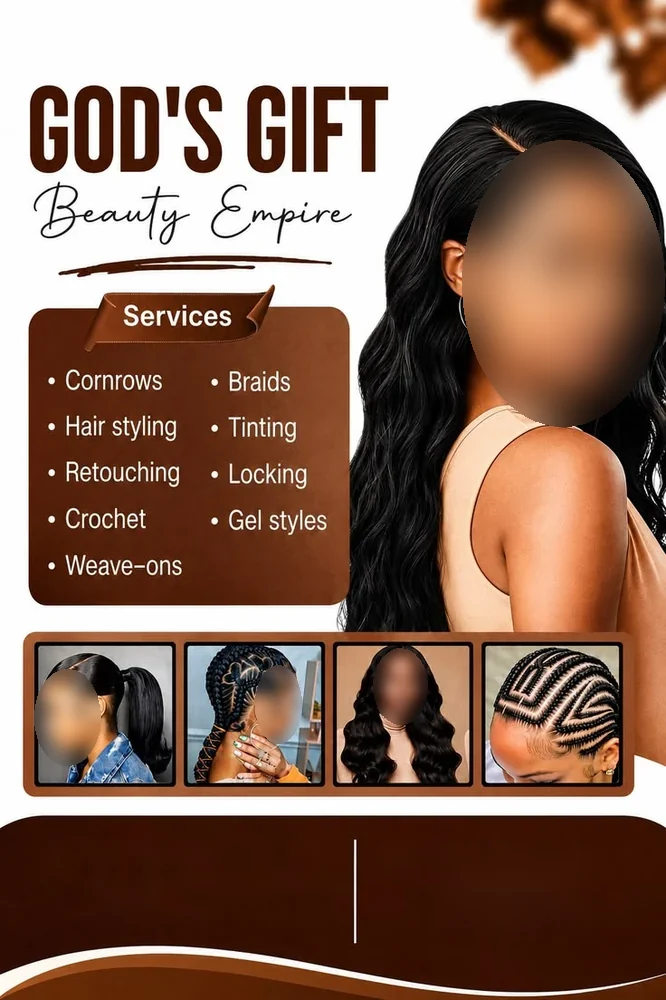
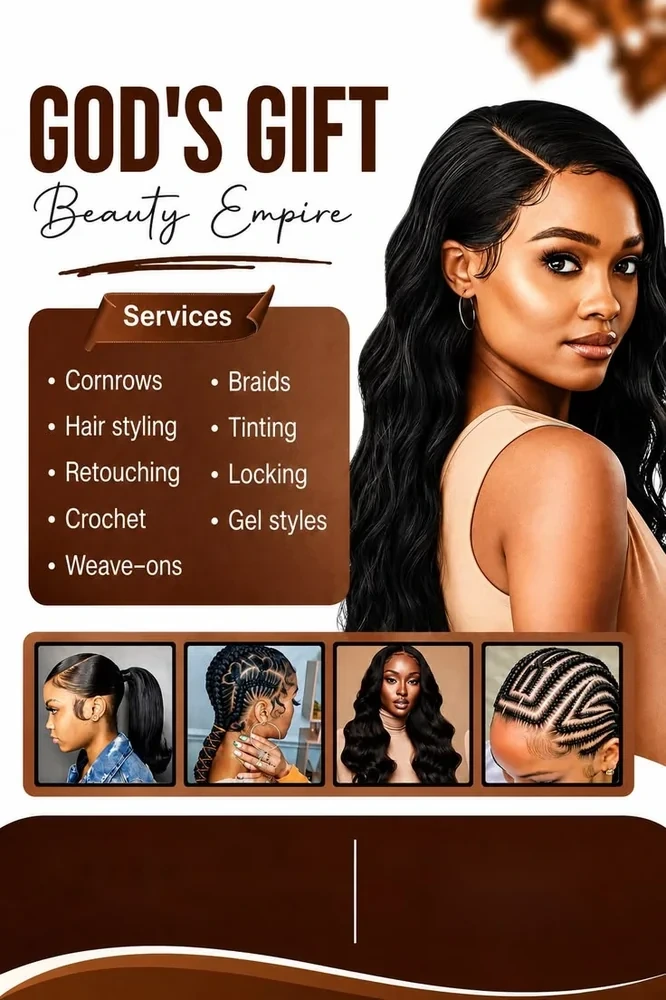
Show public faces again, and move support to a corner button.
Birthday and wedding posters keep face blur. Dates and venues stay masked.
The support link leaves the header and sits as a flat mint headset at the bottom right.

diff --git a/src/components/support/support-corner.tsx b/src/components/support/support-corner.tsx
@@ -1,0 +1,41 @@
+"use client";
+
+import Link from "next/link";
+import { usePathname } from "next/navigation";
+import { useEffect, useState } from "react";
+import { COOKIE_CHOICE_EVENT, COOKIE_CONSENT_KEY } from "@/components/legal/cookie-banner";
+
+export function SupportCorner() {
+  const pathname = usePathname() ?? "";
+  const [lifted, setLifted] = useState(true);
+
+  useEffect(() => {
+    function sync() {
+      setLifted(!window.localStorage.getItem(COOKIE_CONSENT_KEY));
+    }
+    sync();
+    window.addEventListener(COOKIE_CHOICE_EVENT, sync);
+    window.addEventListener("storage", sync);
+    return () => {
+      window.removeEventListener(COOKIE_CHOICE_EVENT, sync);
+      window.removeEventListener("storage", sync);
+    };
+  }, []);
+
+  if (pathname.startsWith("/support") || pathname.startsWith("/c/")) return null;
+
+  return (
+    <Link
+      href="/support"
+      aria-label="Ouvrir le support"
+      className={`fixed right-4 z-[90] inline-flex h-14 w-14 items-center justify-center rounded-2xl bg-[#10B981] text-[#1E293B] shadow-[0_4px_12px_rgba(30,41,59,0.12)] transition-[background-color,bottom] duration-200 hover:bg-[#059669] focus-visible:outline focus-visible:outline-2 focus-visible:outline-offset-2 focus-visible:outline-[#6D28D9] ${lifted ? "bottom-48 md:bottom-28" : "bottom-5"}`}
+    >
+      <svg viewBox="0 0 24 24" className="h-7 w-7" fill="none" stroke="currentColor" strokeWidth="1.8" aria-hidden="true">
+        <path strokeLinecap="round" d="M4.5 13v-1a7.5 7.5 0 0 1 15 0v1" />
+        <rect x="2.4" y="12" width="4.2" height="6.2" rx="1.1" />
+        <rect x="17.4" y="12" width="4.2" height="6.2" rx="1.1" />
+        <path strokeLinecap="round" d="M19.6 18.2v.8A2.2 2.2 0 0 1 17.4 21H14" />
+      </svg>
+    </Link>
+  );
+}

diff --git a/src/lib/exact-showcase.ts b/src/lib/exact-showcase.ts
@@ -9,7 +9,7 @@ export const EXACT_SHOWCASE = [
     meta: "Date retirée",
     cta: "Exemple public",
     domaine: "Beauté",
-    alt: "Exemple public, affiche beauté. Visages, date et nom retirés.",
+    alt: "Exemple public, affiche beauté. Date et nom retirés.",
     className: "cover-side cover-side-left",
     priority: false,
   },
@@ -23,7 +23,7 @@ export const EXACT_SHOWCASE = [
     meta: "Contact retiré",
     cta: "Shop Now",
     domaine: "High-tech",
-    alt: "Exemple public, affiche high-tech. Visage, marque et contacts retirés.",
+    alt: "Exemple public, affiche high-tech. Marque et contacts retirés.",
     className: "cover-side cover-side-right",
     priority: false,
   },
@@ -37,7 +37,7 @@ export const EXACT_SHOWCASE = [
     meta: "Salle Horizon",
     cta: "Réservation",
     domaine: "Événement",
-    alt: "Exemple public, affiche événement. Visages, horaire, lieu et téléphones retirés.",
+    alt: "Exemple public, affiche événement. Horaire, lieu et téléphones retirés.",
     className: "cover-hero",
     priority: true,
   },

diff --git a/src/app/confidentialite/page.tsx b/src/app/confidentialite/page.tsx
@@ -45,7 +45,7 @@ export default function PrivacyPage() {
       <section>
         <h2 className="text-2xl font-bold">Exemples publics</h2>
         <p className="mt-3 text-slate-700">
-          Les affiches de la galerie Créations et du showcase viennent de références déjà publiées. Les visages y sont floutés, et les noms, numéros, dates et lieux réels sont retirés, pour ne pas remettre en ligne l’identité des personnes visibles sur ces sources. Ce flou ne s’applique pas à une affiche qu’un client génère : sa photo reste nette, et seuls les textes qu’il fournit changent.
+          Les affiches de la galerie Créations et du showcase viennent de références déjà publiées. Les noms, numéros, dates et lieux réels sont retirés. Les visages restent visibles, sauf sur les affiches anniversaire et mariage, où ils restent flous. Ce flou ne s’applique pas à une affiche qu’un client génère : sa photo reste nette, et seuls les textes qu’il fournit changent.
         </p>
       </section>
 

diff --git a/src/components/site-header.tsx b/src/components/site-header.tsx
@@ -39,9 +39,6 @@ export function SiteHeader({ mintBalance = null, showAdmin = false, adminHref = 
             <Link href="/history" className="transition hover:text-[#6D28D9]">
               Historique
             </Link>
-            <Link href="/support" className="transition hover:text-[#6D28D9]">
-              Support
-            </Link>
             <Link href="/profile" className="transition hover:text-[#6D28D9]">
               Profil
             </Link>
@@ -108,9 +105,6 @@ export function SiteHeader({ mintBalance = null, showAdmin = false, adminHref = 
               </Link>
               <Link href="/history" className="rounded-lg px-2 py-2" onClick={() => setOpen(false)}>
                 Historique
-              </Link>
-              <Link href="/support" className="rounded-lg px-2 py-2" onClick={() => setOpen(false)}>
-                Support
               </Link>
               <Link href="/profile" className="rounded-lg px-2 py-2" onClick={() => setOpen(false)}>
                 Profil

diff --git a/src/components/legal/cookie-banner.tsx b/src/components/legal/cookie-banner.tsx
@@ -2,13 +2,14 @@
 
 import { useEffect, useState } from "react";
 
-const KEY = "fm-cookie-consent";
+export const COOKIE_CONSENT_KEY = "fm-cookie-consent";
+export const COOKIE_CHOICE_EVENT = "fm-cookie-choice";
 
 export function CookieBanner() {
   const [visible, setVisible] = useState(false);
 
   useEffect(() => {
-    const stored = window.localStorage.getItem(KEY);
+    const stored = window.localStorage.getItem(COOKIE_CONSENT_KEY);
     setVisible(!stored);
     if (stored === "analytics") {
       window.dispatchEvent(new Event("fm-analytics-consent"));
@@ -16,8 +17,9 @@ export function CookieBanner() {
   }, []);
 
   function choose(value: "necessary" | "analytics") {
-    window.localStorage.setItem(KEY, value);
+    window.localStorage.setItem(COOKIE_CONSENT_KEY, value);
     setVisible(false);
+    window.dispatchEvent(new Event(COOKIE_CHOICE_EVENT));
     if (value === "analytics") {
       window.dispatchEvent(new Event("fm-analytics-consent"));
     }

diff --git a/src/components/chrome/auth-chrome.tsx b/src/components/chrome/auth-chrome.tsx
@@ -4,6 +4,7 @@ import { SiteFooter } from "@/components/site-footer";
 import { SiteHeaderHost } from "@/components/site-header-host";
 import { SiteFrame } from "@/components/chrome/site-frame";
 import { CookieBanner } from "@/components/legal/cookie-banner";
+import { SupportCorner } from "@/components/support/support-corner";
 import { AnalyticsLoader } from "@/components/legal/analytics-loader";
 
 const jakarta = Plus_Jakarta_Sans({
@@ -19,6 +20,7 @@ export function AuthChrome({ children }: { children: ReactNode }) {
         <SiteFrame header={<SiteHeaderHost />} footer={<SiteFooter />}>
           {children}
         </SiteFrame>
+        <SupportCorner />
         <CookieBanner />
         <AnalyticsLoader domain={process.env.NEXT_PUBLIC_ANALYTICS_DOMAIN} />
       </body>

diff --git a/src/app/creations/page.tsx b/src/app/creations/page.tsx
@@ -17,7 +17,7 @@ export default function CreationsPage() {
         <div>
           <h1 className="text-3xl font-extrabold">Créations</h1>
           <p className="mt-2 max-w-xl text-slate-600">
-            {posters.length} domaines. Chaque affiche garde la photo et la composition de sa référence. Les noms, numéros, dates et lieux réels sont retirés. Les visages, surtout celui de l’anniversaire, sont floutés.
+            {posters.length} domaines. Chaque affiche garde la photo et la composition de sa référence. Les noms, numéros, dates et lieux réels sont retirés. Les visages restent flous sur l’anniversaire et le mariage.
           </p>
         </div>
         <Link href="/create" className="btn-primary">

diff --git a/src/components/chrome/public-chrome.tsx b/src/components/chrome/public-chrome.tsx
@@ -5,6 +5,7 @@ import { BrandLogo } from "@/components/brand/logo";
 import { SiteFooter } from "@/components/site-footer";
 import { SiteFrame } from "@/components/chrome/site-frame";
 import { CookieBanner } from "@/components/legal/cookie-banner";
+import { SupportCorner } from "@/components/support/support-corner";
 import { AnalyticsLoader } from "@/components/legal/analytics-loader";
 
 const jakarta = Plus_Jakarta_Sans({
@@ -52,6 +53,7 @@ export function PublicChrome({ children }: { children: ReactNode }) {
         >
           {children}
         </SiteFrame>
+        <SupportCorner />
         <CookieBanner />
         <AnalyticsLoader domain={process.env.NEXT_PUBLIC_ANALYTICS_DOMAIN} />
       </body>

diff --git a/src/components/create-flyer-form.tsx b/src/components/create-flyer-form.tsx
@@ -207,7 +207,7 @@ export function CreateFlyerForm({
         <input type="hidden" name="creativeFreedom" value="copie_exacte" />
         <p className="text-xs text-slate-500 md:col-span-2">
           Chaque affiche est une copie exacte d’une référence du domaine. Ta photo remplace la personne, nette, sans flou.
-          Seuls les textes que tu remplis changent. Le flou des visages ne concerne que les exemples publics.
+          Seuls les textes que tu remplis changent. Le flou des visages reste sur les exemples anniversaire et mariage.
         </p>
         <label className="space-y-1 text-sm">
           <span className="font-medium text-slate-700">Photo / produit (optionnel)</span>

diff --git a/src/app/decouvrir/page.tsx b/src/app/decouvrir/page.tsx
@@ -121,7 +121,7 @@ export default function DiscoverPage() {
             <VisualPoster key={poster.id} title={poster.label} subtitle={poster.domaine} imageSrc={poster.src} />
           ))}
         </div>
-        <p className="text-sm text-slate-500">Chaque visuel reprend la référence de son dossier, sans nom, numéro ni date réelle. Les visages de ces exemples sont floutés, comme expliqué dans la confidentialité.</p>
+        <p className="text-sm text-slate-500">Chaque visuel reprend la référence de son dossier, sans nom, numéro ni date réelle. Les visages restent flous seulement sur l’anniversaire et le mariage.</p>
       </section>
 
       <section id="comment-ca-marche">

diff --git a/src/components/cover/cover-scene.tsx b/src/components/cover/cover-scene.tsx
@@ -58,7 +58,7 @@ export function CoverScene({ bar, band }: { bar: ReactNode; band: ReactNode }) {
         </div>
         <p className="cover-caption">
           Copie exacte : même photo, même composition, même police, même fond. Sur les exemples publics, les
-          visages, dates, lieux et contacts sont retirés.
+          dates, lieux et contacts sont retirés. Les visages restent flous seulement sur anniversaire et mariage.
         </p>
       </div>
 

diff --git a/src/app/dashboard/page.tsx b/src/app/dashboard/page.tsx
@@ -38,9 +38,6 @@ export default async function DashboardPage() {
           <Link href="/pricing" className="btn-secondary">
             Acheter des Mints
           </Link>
-          <Link href="/support" className="btn-secondary">
-            Support
-          </Link>
         </div>
       </section>
 
